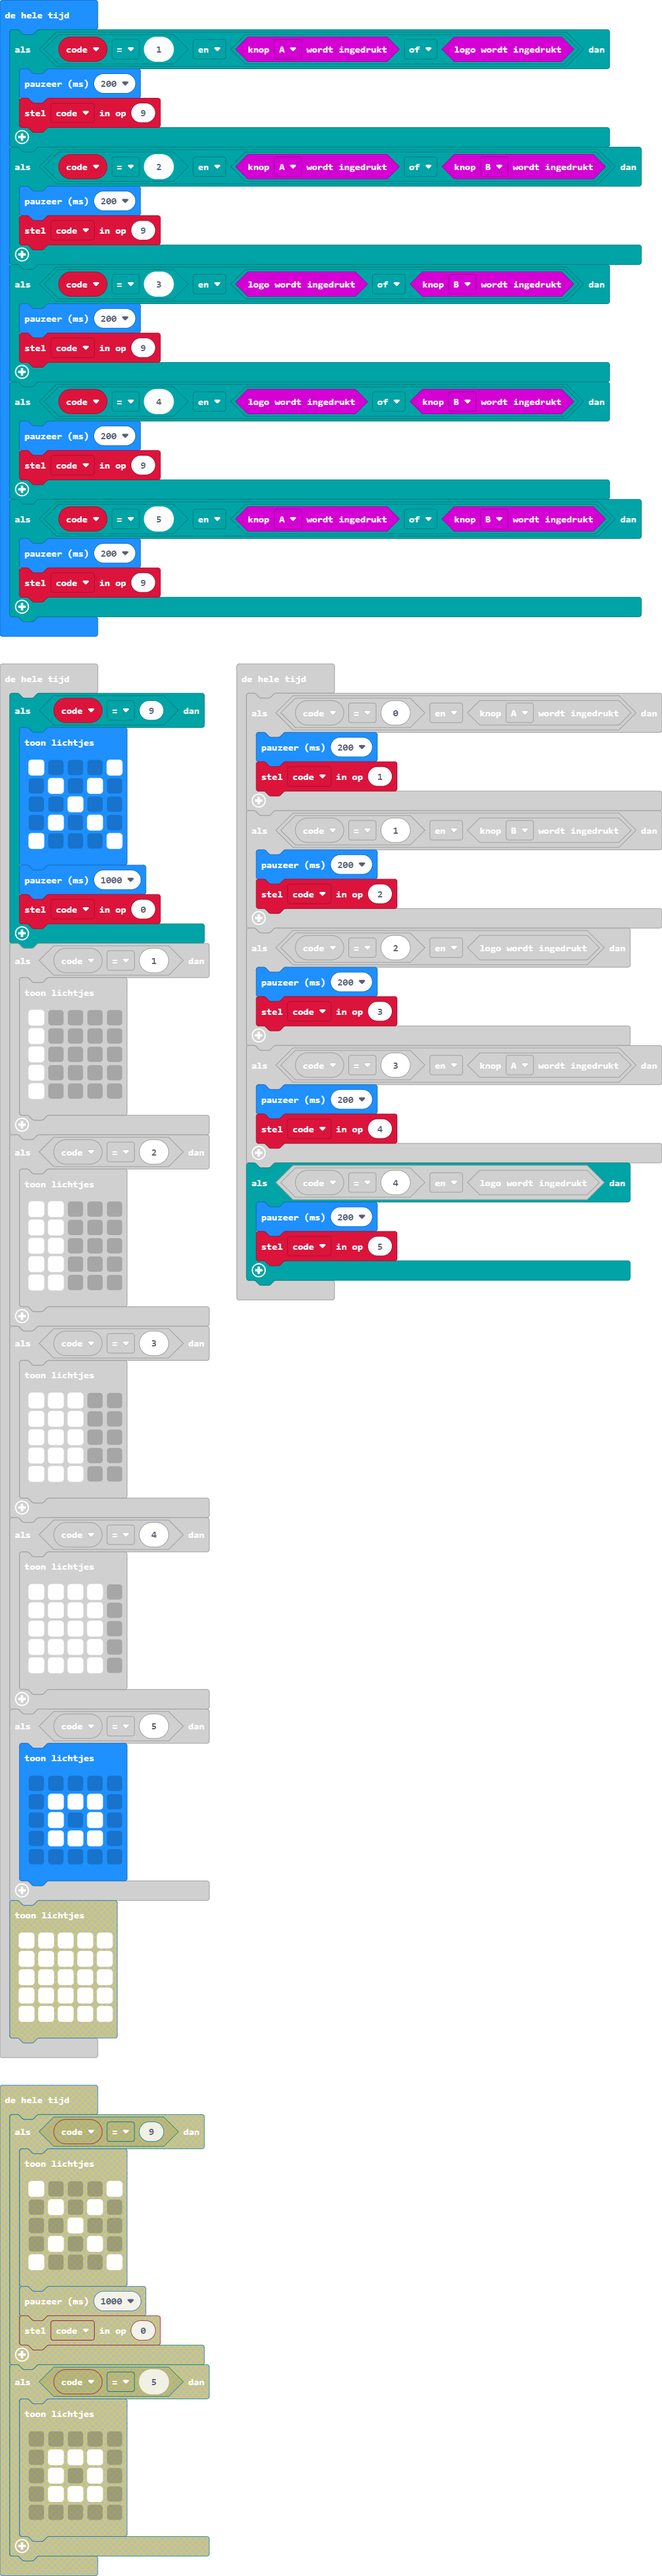
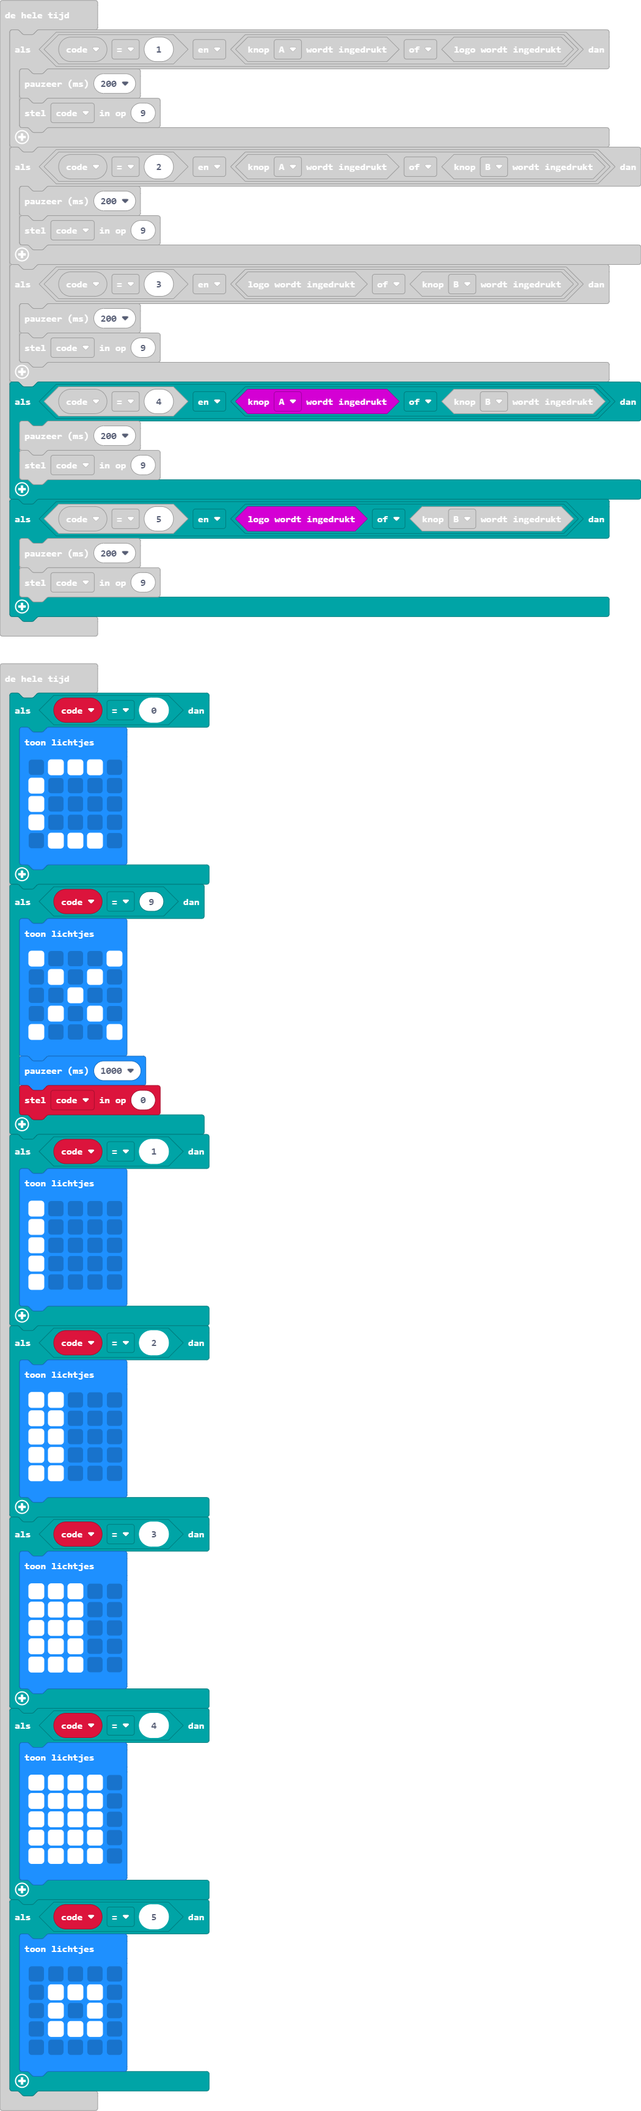
main.blocks, main.ts bijwerken

diff --git a/main.ts b/main.ts
@@ -21,16 +21,25 @@ basic.forever(function () {
         basic.pause(200)
         code = 9
     }
-    if (code == 4 && (input.logoIsPressed() || input.buttonIsPressed(Button.B))) {
+    if (code == 4 && (input.buttonIsPressed(Button.A) || input.buttonIsPressed(Button.B))) {
         basic.pause(200)
         code = 9
     }
-    if (code == 5 && (input.buttonIsPressed(Button.A) || input.buttonIsPressed(Button.B))) {
+    if (code == 5 && (input.logoIsPressed() || input.buttonIsPressed(Button.B))) {
         basic.pause(200)
         code = 9
     }
 })
 basic.forever(function () {
+    if (code == 0) {
+        basic.showLeds(`
+            . # # # .
+            # . . . .
+            # . . . .
+            # . . . .
+            . # # # .
+            `)
+    }
     if (code == 9) {
         basic.showLeds(`
             # . . . #
